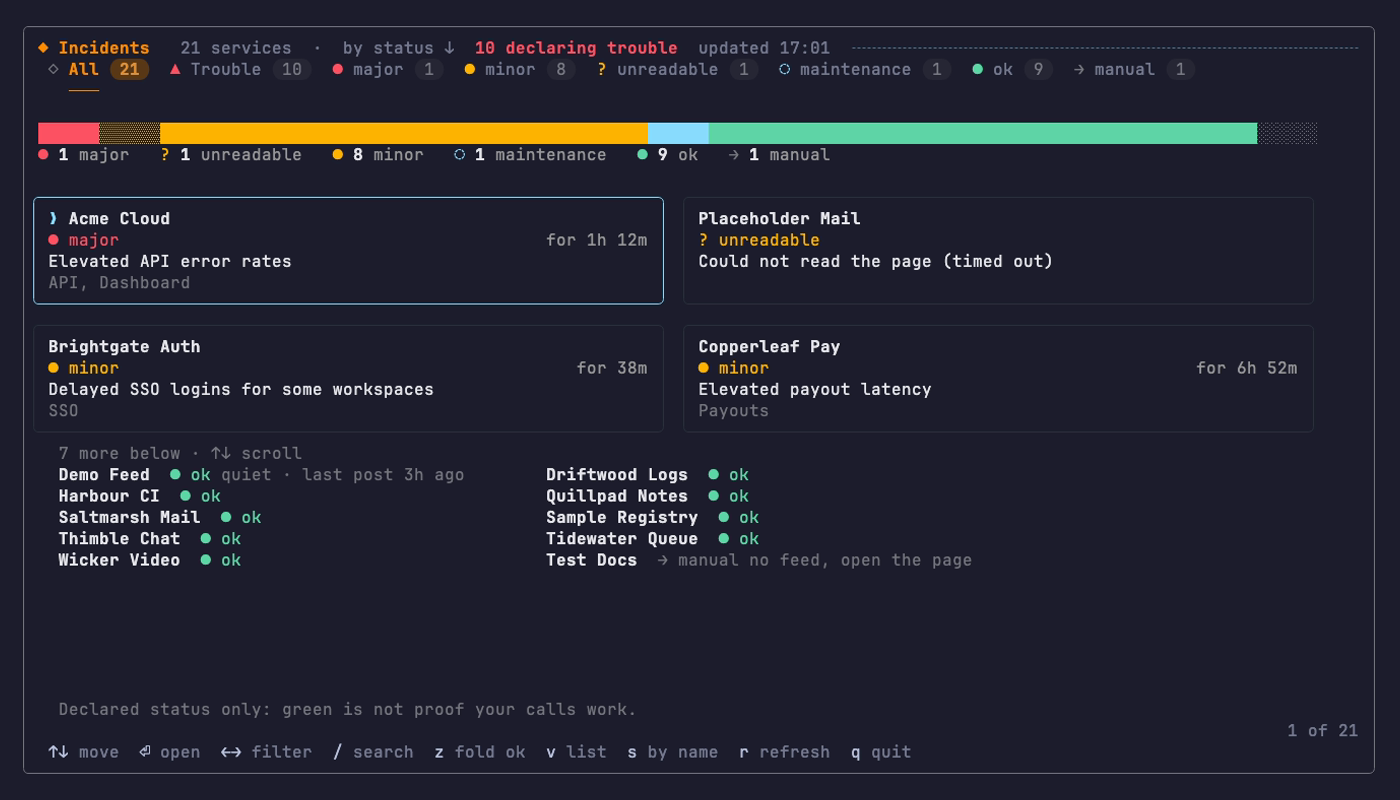
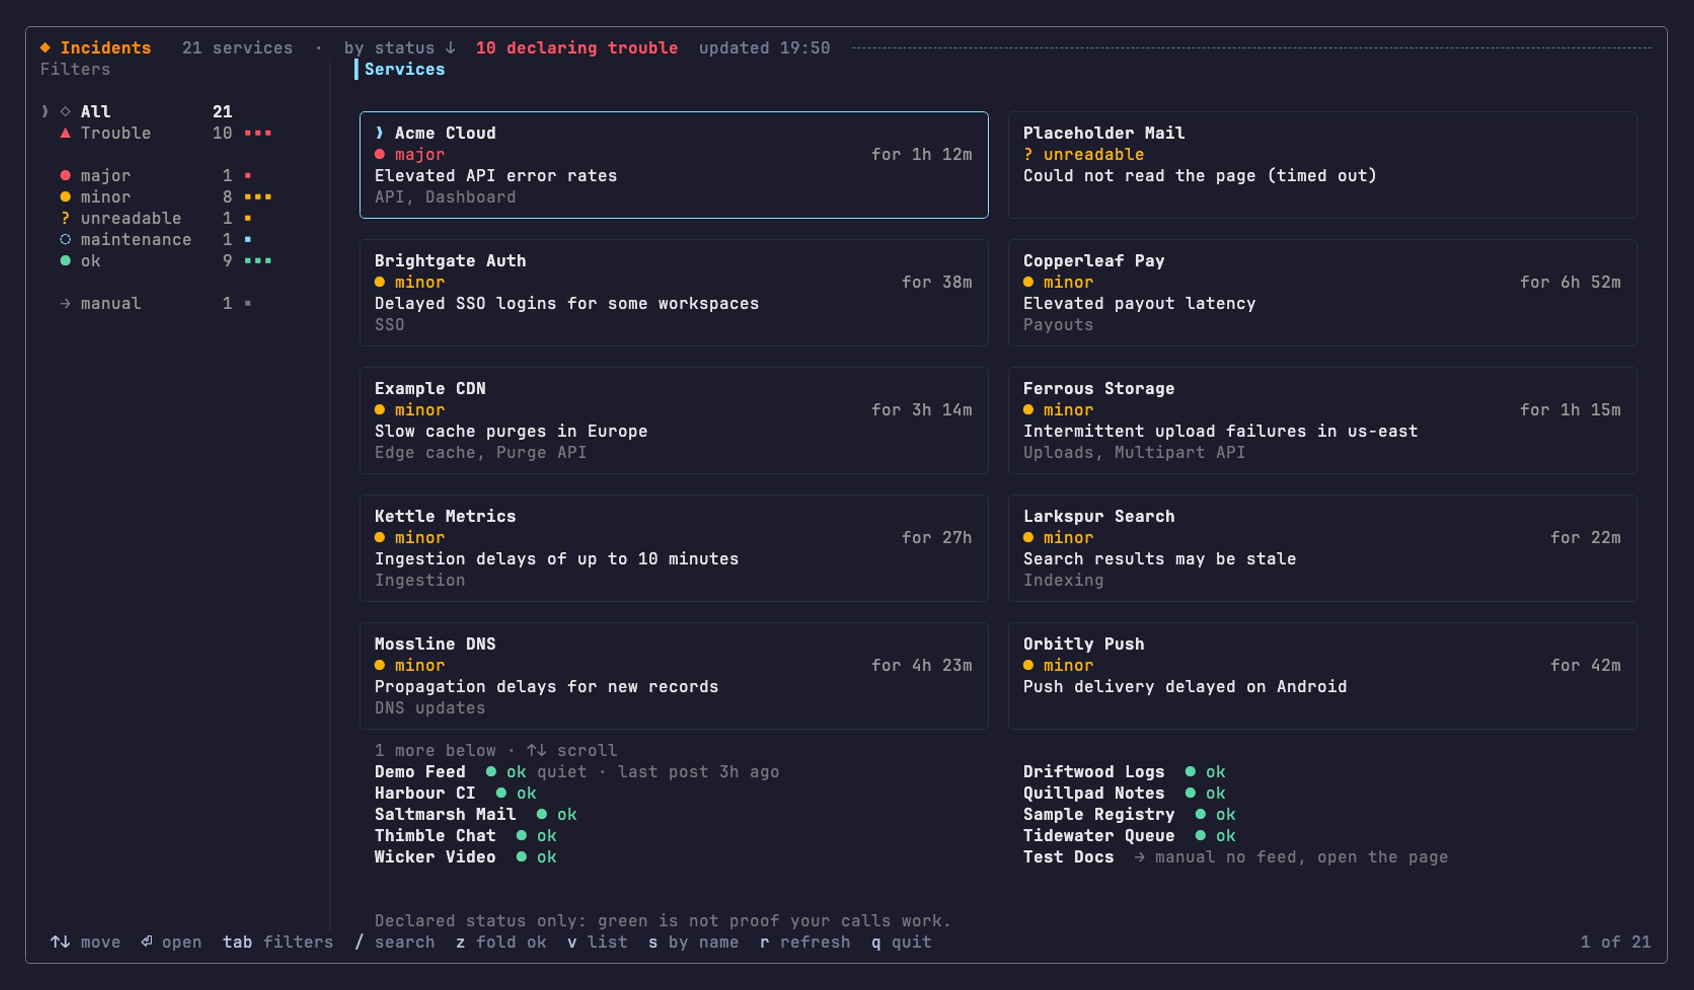
📝 docs(screenshots): replace overview with list view
- README.md: drop the overview.png image and show board.png and the new list.png (list view with a preview of the selected service) in its place
- scripts/screenshots.zsh: capture the board and list shots instead of overview and board, with the list triggered by Type "v"
- Raise the capture size from 1400x800 to 1694x990 so the full filter column fits (160 columns at font size 16)
- Update the regenerated PNG assets (board.png, list.png, detail.png) to match the new dimensions

diff --git a/README.md b/README.md
@@ -6,9 +6,9 @@ Which of the services you depend on are declaring trouble right now: vendor stat
 
 It reads each vendor's own status page, worst first, and tells you what they have **declared**. A green row is not proof your calls work; a page it cannot read is shown as `? unreadable` and counts as not green, never as fine.
 
-![The overview: every service, worst first](assets/overview.png)
+![The board: a filter column that doubles as the tally, a card per service in trouble, the healthy ones in a grid](assets/board.png)
 
-![The board: a tally, a card per service in trouble, the rest in a grid](assets/board.png)
+![The list (v): every service, worst first, with a preview of the selected one](assets/list.png)
 
 ![One service in detail: open incidents, affected components, earlier ones](assets/detail.png)
 
